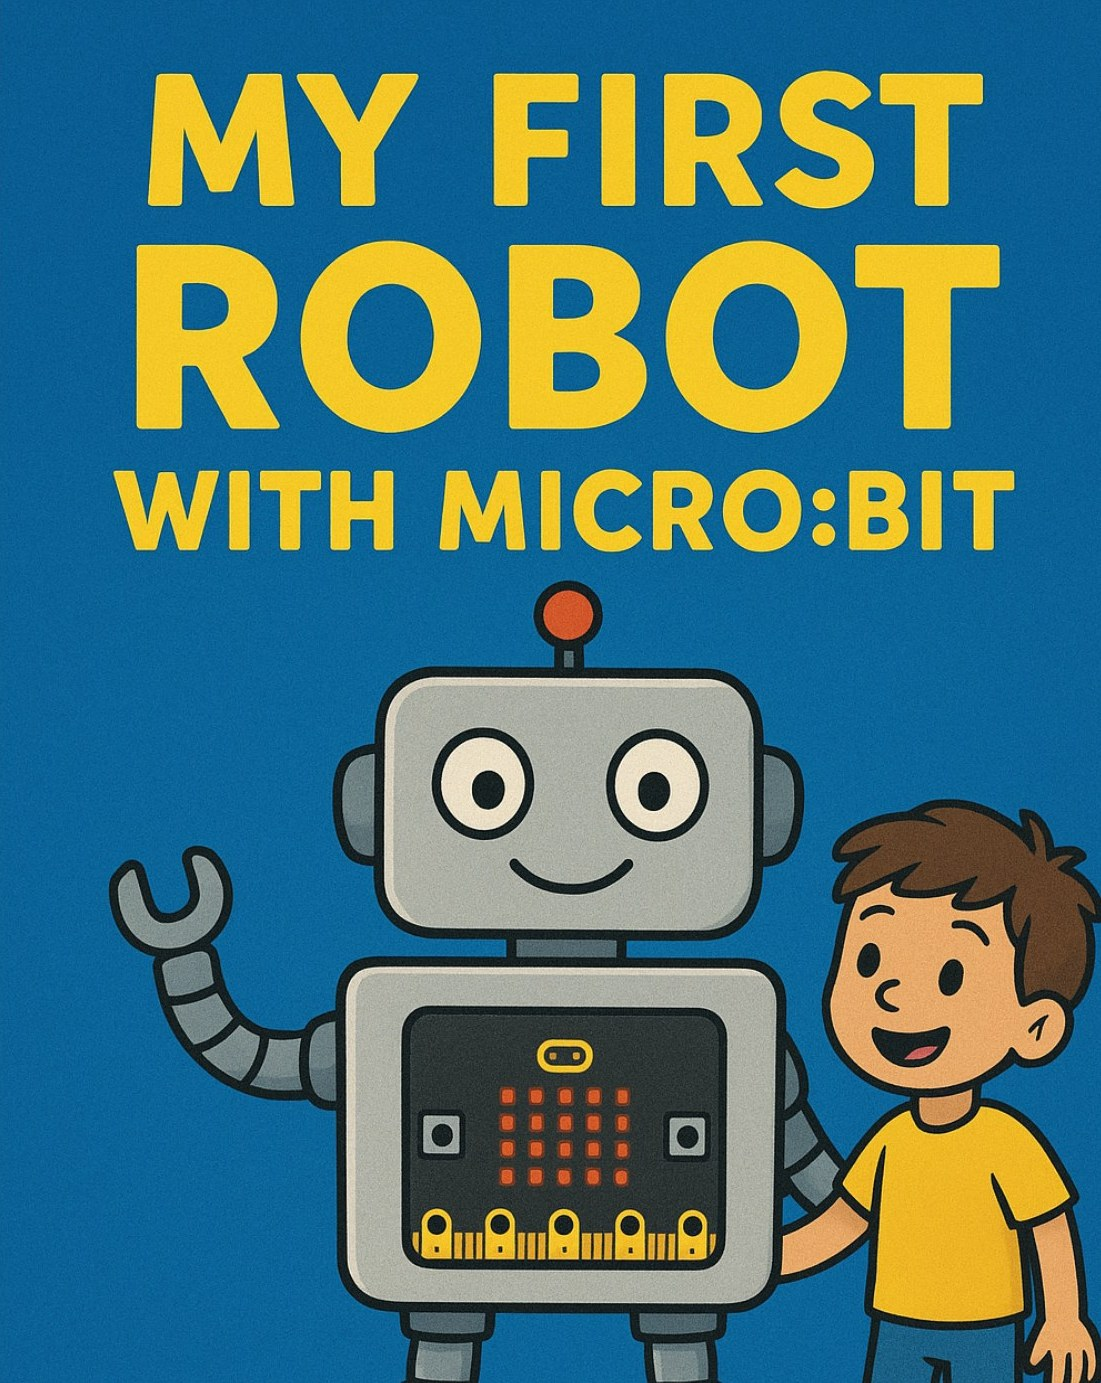
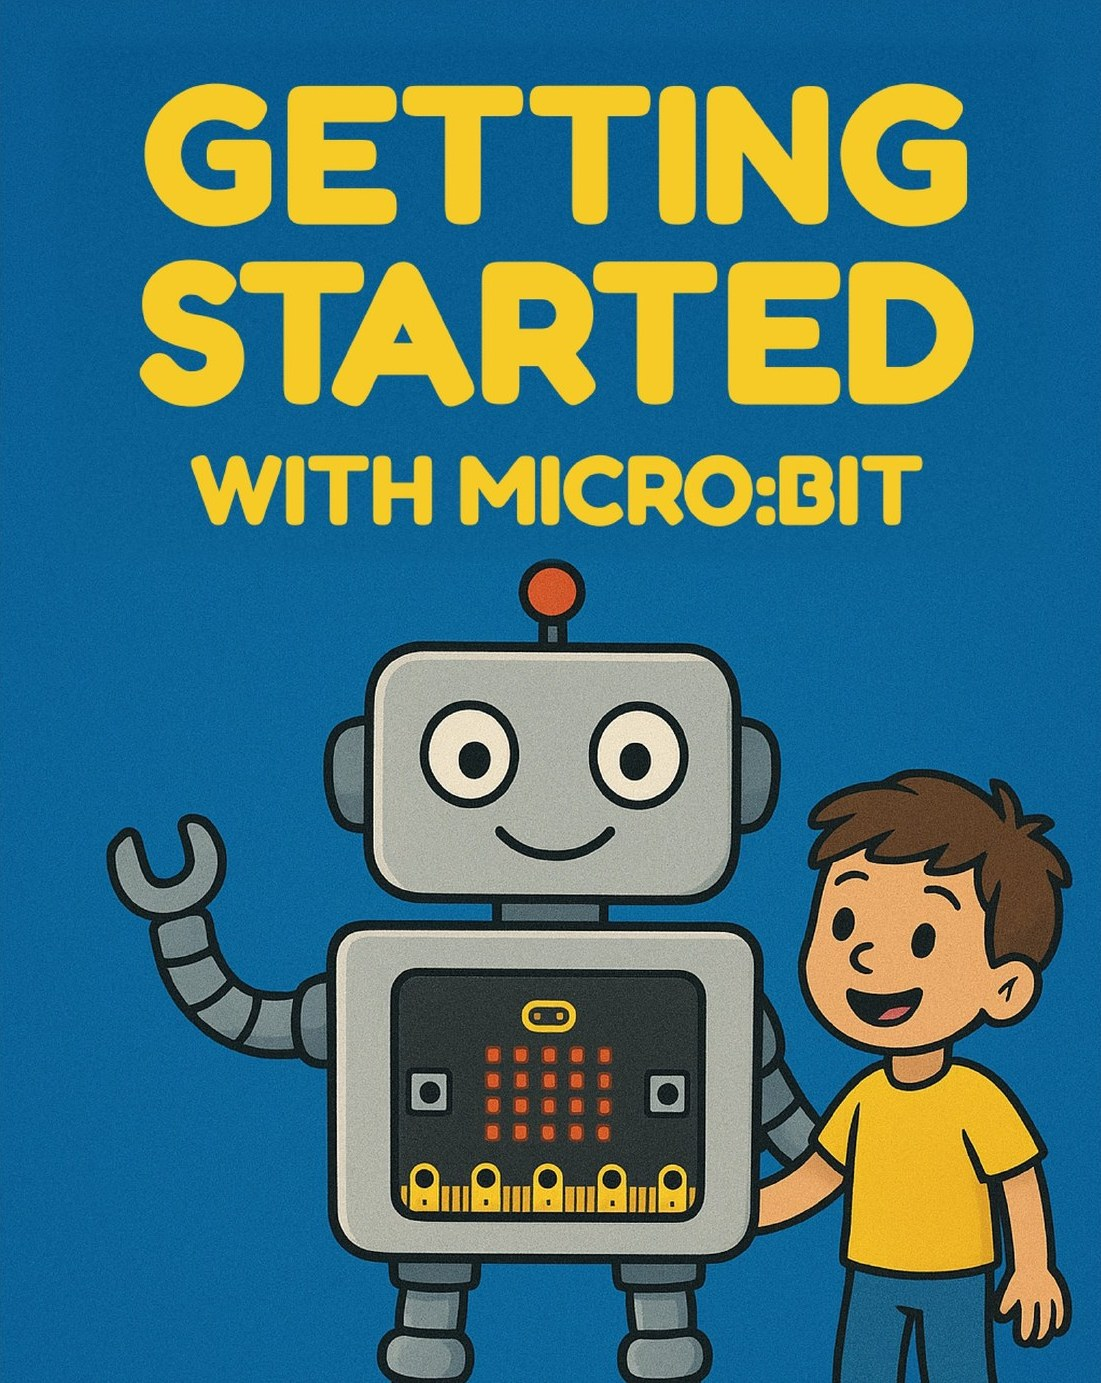
Update book cover to match the Getting Started with Micro:bit title

diff --git a/index.html b/index.html
@@ -319,7 +319,7 @@
 
 <section id="book"><div class="wrap">
 <p class="eyebrow rv">Author</p><h2 class="rv">I wrote a book</h2>
-<div class="card rv bk-card"><a href="projects/microbit-beginners-guide/" class="bk-thumb"><img src="projects/microbit-beginners-guide/cover.jpg" width="1101" height="1383" alt="Illustrated cover of the micro:bit book: a friendly robot waving beside a child" loading="lazy"></a>
+<div class="card rv bk-card"><a href="projects/microbit-beginners-guide/" class="bk-thumb"><img src="projects/microbit-beginners-guide/cover.jpg" width="1101" height="1383" alt="Illustrated cover of Getting Started with Micro:bit: a friendly robot waving beside a child" loading="lazy"></a>
 <div><h3>Getting Started with Micro:bit</h3><p class="muted" style="margin:4px 0 14px">A Beginner's Guide to Coding, Electronics, and Fun Projects · Maker Works Lab, Mumbai · 2025</p>
 <div class="btns"><a class="btn primary" href="projects/microbit-beginners-guide/">About the book</a><a class="btn" href="https://online.anyflip.com/aogwo/mjyr/index.html" target="_blank" rel="noopener">Read online →</a></div></div></div>
 </div></section>

diff --git a/projects/microbit-beginners-guide/index.html b/projects/microbit-beginners-guide/index.html
@@ -177,7 +177,7 @@
 <div class="chips big rv" style="margin:0 0 24px"><span class="chip">87 pages</span><span class="chip">20 chapters</span><span class="chip">Block coding + Python</span><span class="chip">First edition 2025</span></div>
 <div class="btns rv"><a class="btn primary" href="https://online.anyflip.com/aogwo/mjyr/index.html" target="_blank" rel="noopener">Read the book online →</a><a class="btn" href="https://anyflip.com/bookcase/hrxwz/" target="_blank" rel="noopener">AnyFlip bookcase</a></div>
 </div>
-<figure class="rv bk-cover"><img src="cover.jpg" width="1101" height="1383" alt="Illustrated book cover: a friendly robot with a micro:bit on its chest waves beside a smiling child, with the title My First Robot with micro:bit" fetchpriority="high"></figure>
+<figure class="rv bk-cover"><img src="cover.jpg" width="1101" height="1383" alt="Illustrated cover of Getting Started with Micro:bit: a friendly robot with a micro:bit on its chest waves beside a smiling child" fetchpriority="high"></figure>
 </div></section>
 
 <section><div class="wrap">
